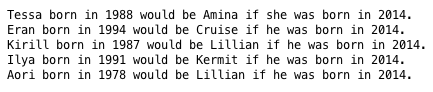
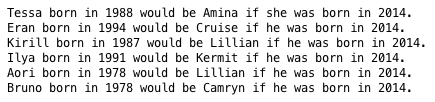
Add image

diff --git a/BabyNames.java b/BabyNames.java
@@ -195,6 +195,7 @@ public class BabyNames
         whatIsNameInYear("Kirill", 1987, 2014, "M");
         whatIsNameInYear("Ilya", 1991, 2014, "M");
         whatIsNameInYear("Aori", 1978, 2014, "M");
+        whatIsNameInYear("Bruno", 1978, 2014, "M");
     }
     
     public void testGetName() {
